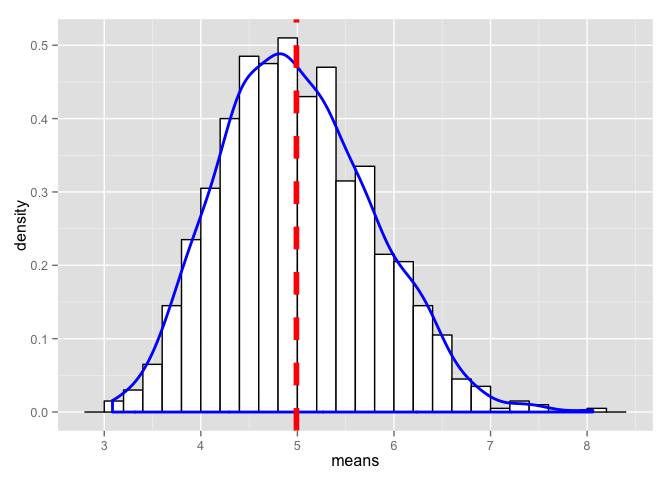
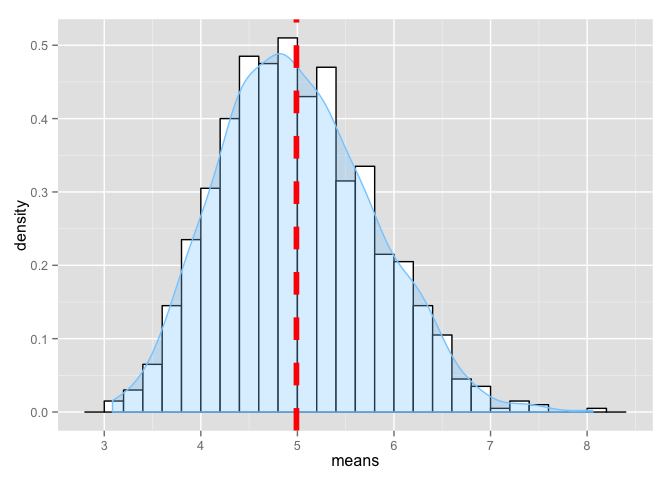
course project a

Changed region(s): [[0.1562, 0.0938, 0.9062, 0.875]]

diff --git a/statistical-inference/course_project_a.md b/statistical-inference/course_project_a.md
@@ -110,7 +110,7 @@ The following plot contains the histogram (light blue) of the means of 1000 rand
 
 
 ```r
-ggplot(data.frame(means), aes(x = means)) + geom_histogram(aes(y=..density..), colour = "black", fill = "white", binwidth = lambda) + geom_density(colour = "blue", size = 1) + geom_vline(aes(xintercept = sample_mean), linetype = "dashed", size = 2, colour = "red") + scale_x_continuous(breaks = c(1:10))
+ggplot(data.frame(means), aes(x = means)) + geom_histogram(aes(y=..density..), colour = "black", fill = "white", binwidth = lambda) + geom_density(colour = "skyblue1", fill="skyblue1", alpha = .3) + geom_vline(aes(xintercept = sample_mean), linetype = "dashed", size = 2, colour = "red") + scale_x_continuous(breaks = c(1:10))
 ```
 
 ![](course_project_a_figure/unnamed-chunk-8-1.png) 
